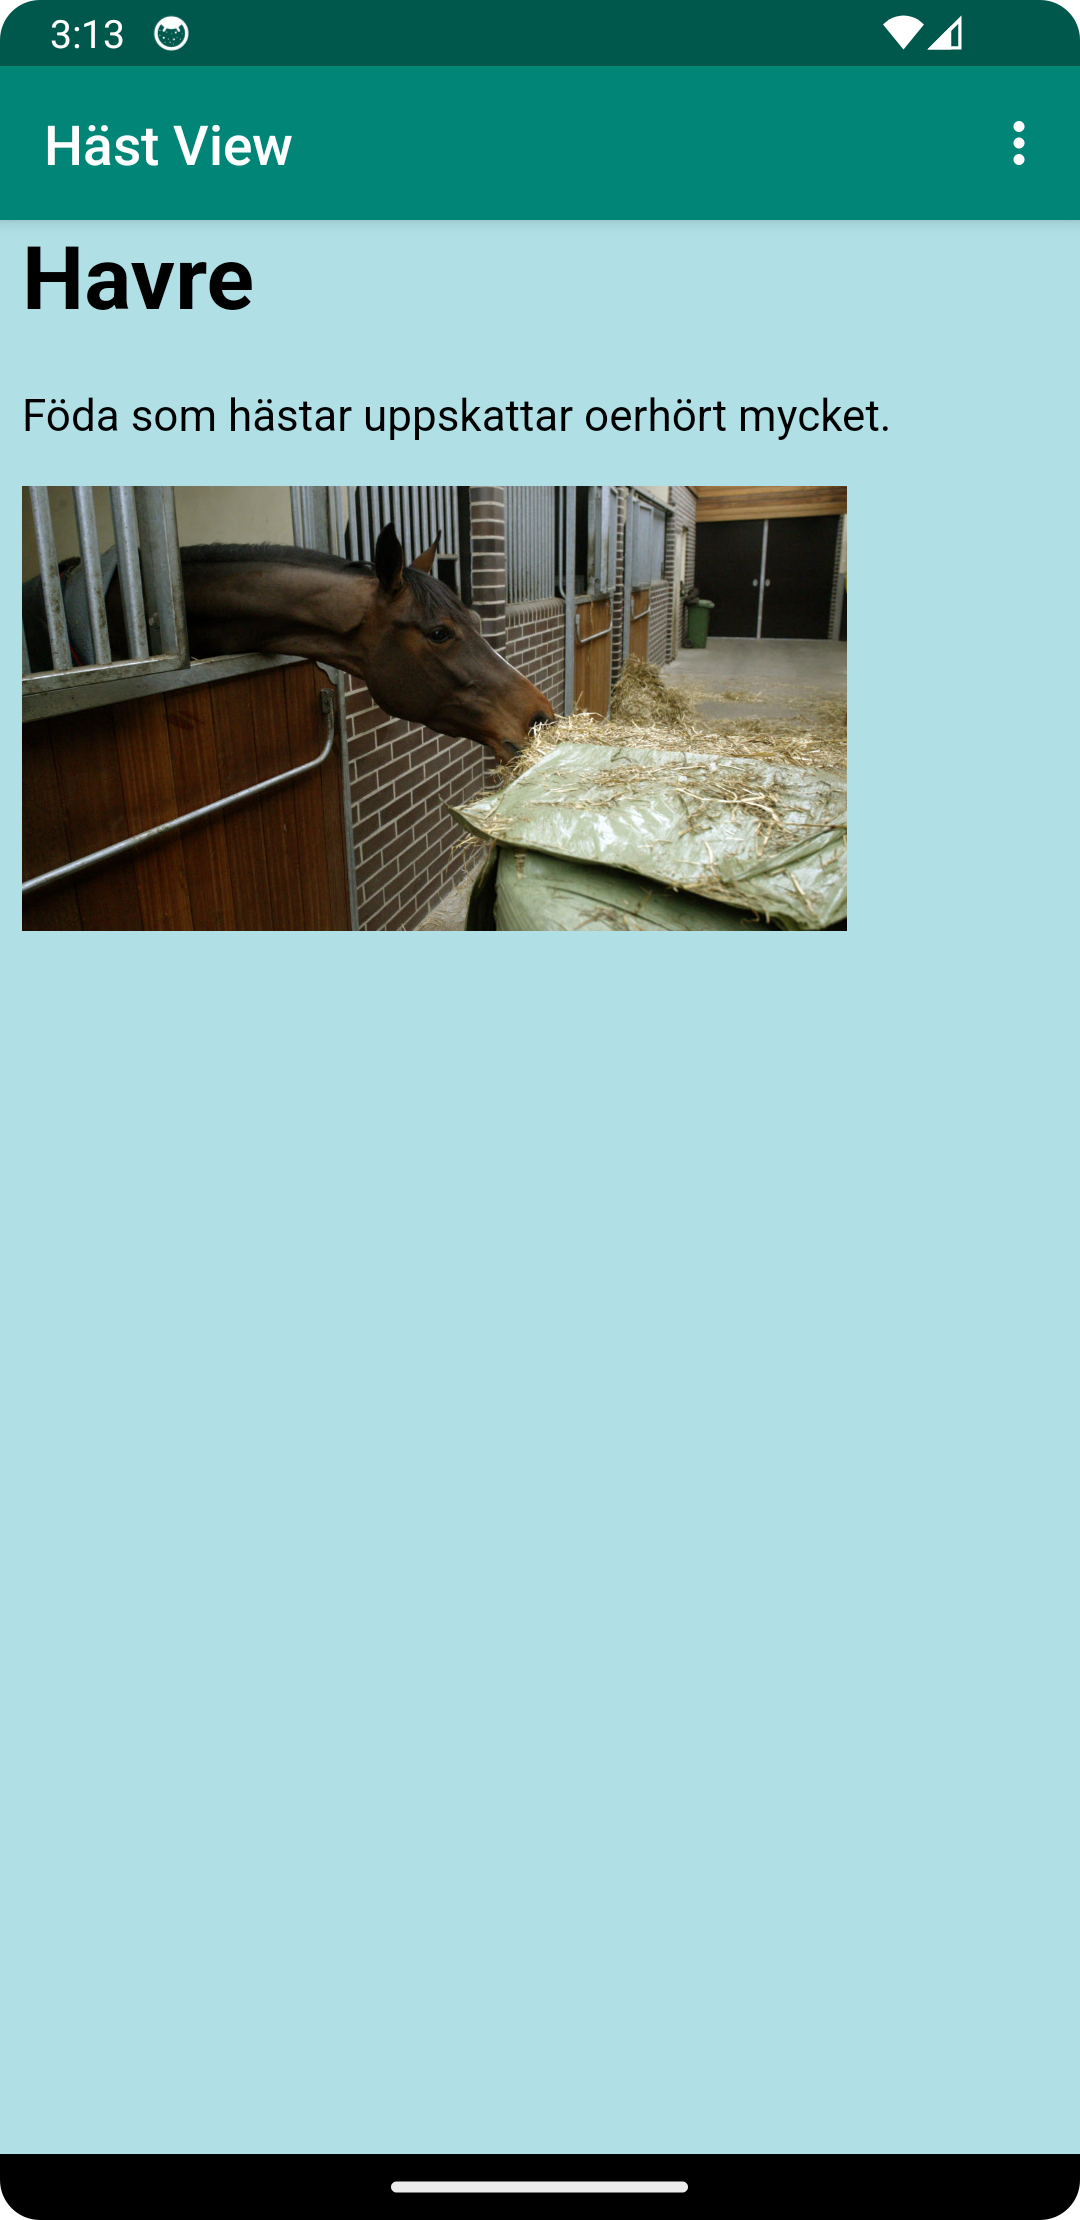
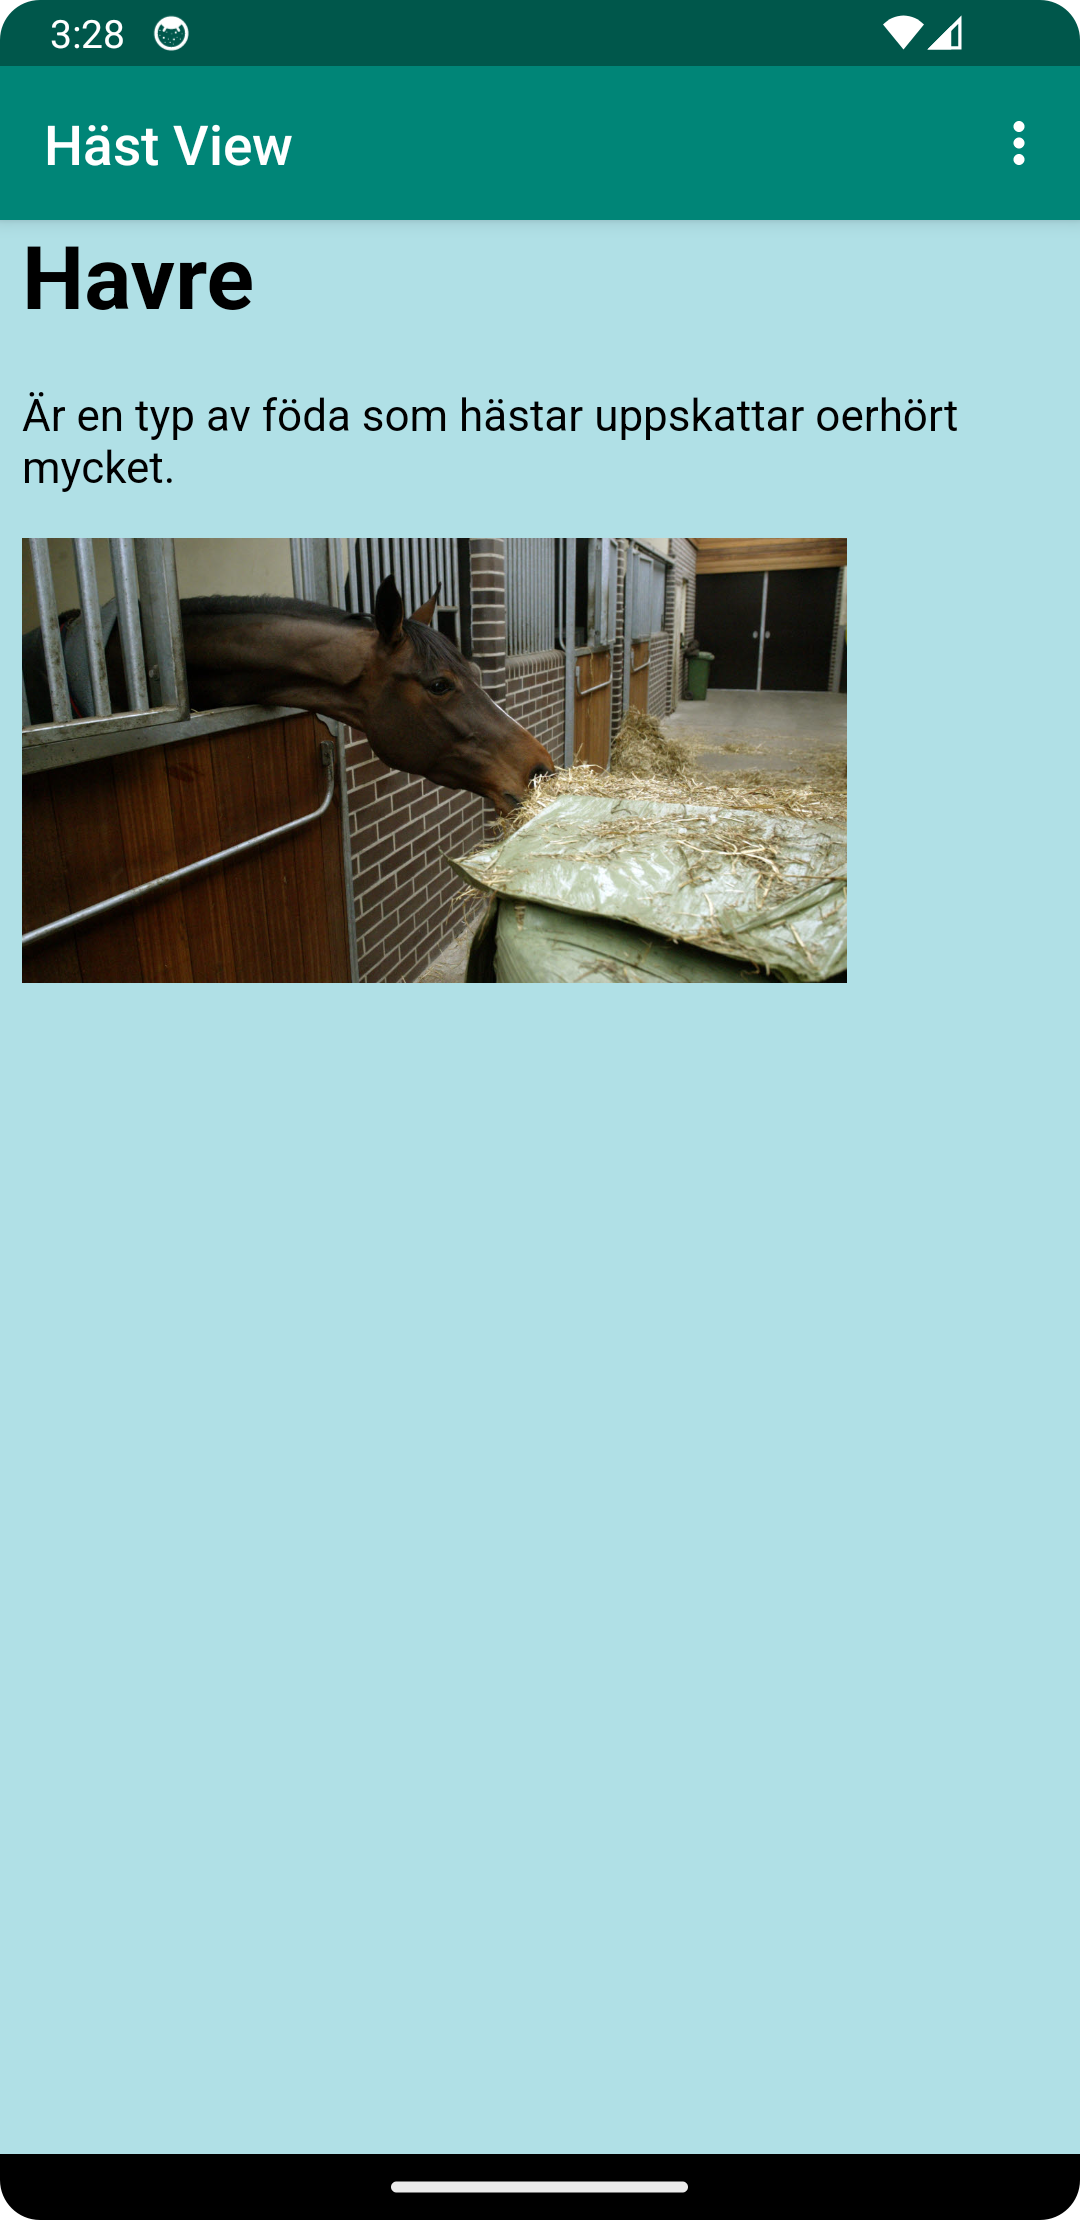
New screenshot

Changed region(s): [[0.0, 0.1554, 0.825, 0.4662], [0.0611, 0.0, 0.0917, 0.0311]]

diff --git a/app/src/main/assets/about.html b/app/src/main/assets/about.html
@@ -5,7 +5,7 @@
     </head>
     <body style="background-color:powderblue;">
         <h1><br>Havre</h1>
-        <p>Föda som hästar uppskattar oerhört mycket.<br></p>
+        <p>Är en typ av föda som hästar uppskattar oerhört mycket.<br></p>
         <img src="img/hast-stal-lite-ho.jpg" alt="Häst äter hö" style="width:300px;height:162px;">
     </body>
 </html>
